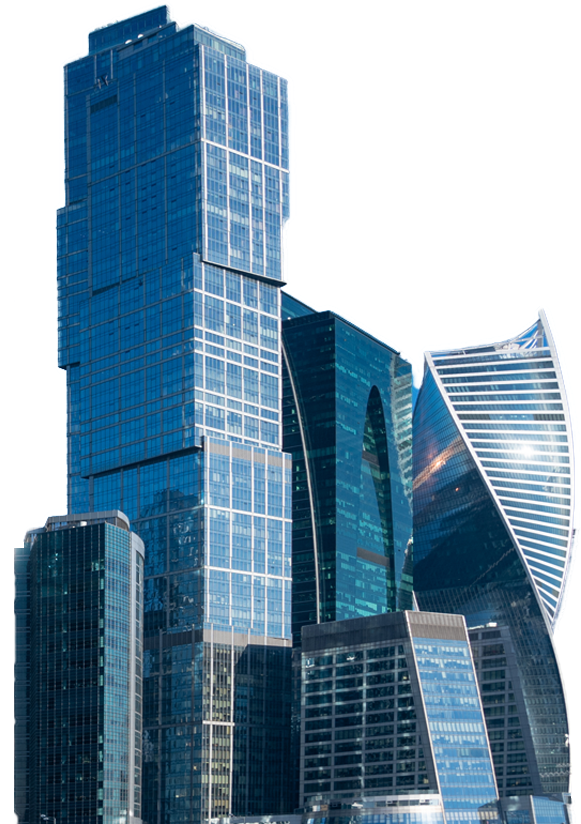
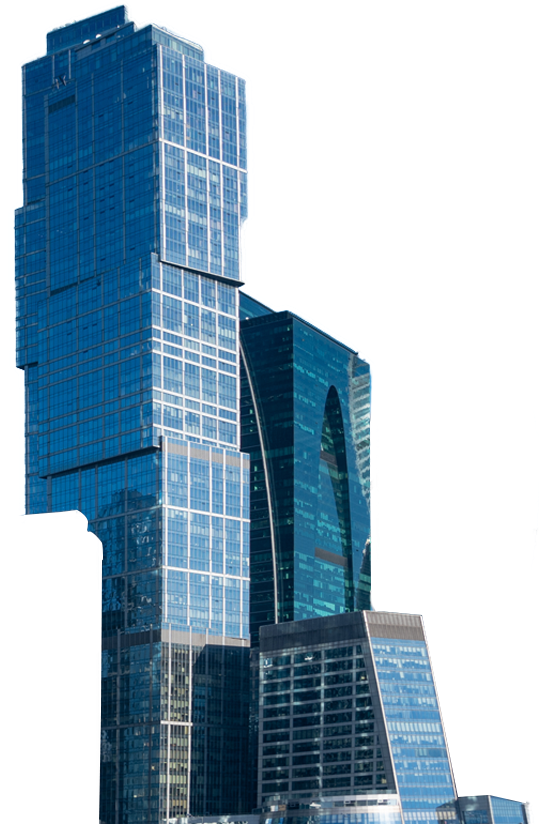
Split buildings

diff --git a/src/html/blocks/main-page/_hero-parallax.html b/src/html/blocks/main-page/_hero-parallax.html
@@ -1,7 +1,7 @@
 <section class="hero-parallax">
     <div class="hero-parallax__container container">
         <div class="hero-parallax__body">
-            <h1 data-parallax="x=0.07,y=0.07,z=0,rotation=1" class="hero-parallax__title">
+            <h1 data-parallax="x=0.06,y=0.06,z=0,rotation=0.5" class="hero-parallax__title">
                 BIM association
             </h1>
         </div>
@@ -9,39 +9,53 @@
             <div data-parallax="x=0.2,y=0.2,z=0,rotation=0" class="parallax-scene__item parallax-scene__bg">
                 <img src="@img/blocks/hero-parallax/bg.png" alt="Background" title="Background">
             </div>
-            <div data-parallax="x=0.2,y=0.2,z=0.2,rotation=1"
+            <div data-parallax="x=0.11,y=0.2,z=0.08, rotation=1" class="parallax-scene__item parallax-scene__evolution">
+                <img src="@img/blocks/hero-parallax/evolution.png" alt="Tower Evolution" title="Tower Evolution">
+            </div>
+            <div data-parallax="x=0.1,y=0.17,z=0.09, rotation=1"
                 class="parallax-scene__item parallax-scene__right-buildings">
                 <img src="@img/blocks/hero-parallax/right-buildings.png" alt="Right buildings" title="Right buildings">
             </div>
-            <div data-parallax="x=0.2,y=0.2,z=0,rotation=0" class="parallax-scene__item parallax-scene__fog-on-right">
+            <div data-parallax="x=0.09,y=0.15,z=0.1, rotation=1" class="parallax-scene__item parallax-scene__2000">
+                <img src="@img/blocks/hero-parallax/building-2000.png" alt="Tower 2000" title="Tower 2000">
+            </div>
+            <div data-parallax="x=0.15,y=0.2,z=0,rotation=0" class="parallax-scene__item parallax-scene__fog-on-right">
                 <img src="@img/blocks/hero-parallax/fog-on-right.png" alt="Fog on left" title="Fog on left">
             </div>
-            <div data-parallax="x=0.3,y=0.2,z=0,rotation=0" class="parallax-scene__item parallax-scene__fog-under-left">
+            <div data-parallax="x=0.155,y=0.2,z=0,rotation=0" class="parallax-scene__item parallax-scene__fog-under-left">
                 <img src="@img/blocks/hero-parallax/fog-under-left.png" alt="Fog under left" title="Fog under left">
             </div>
-            <div data-parallax="x=0.3,y=0.2,z=0,rotation=0"
+            <div data-parallax="x=0.15,y=0.2,z=0,rotation=0"
                 class="parallax-scene__item parallax-scene__fog-between-left-center">
                 <img src="@img/blocks/hero-parallax/fog-between-left-center.png" alt="Fog between left and center"
                     title="Fog between left and center">
             </div>
-            <div data-parallax="x=0.2,y=0.2,z=0.2,rotation=1"
-                class="parallax-scene__item parallax-scene__left-buildings">
-                <img src="@img/blocks/hero-parallax/left-buildings.png" alt="Left buildings" title="Left buildings">
+            <div data-parallax="x=0.095,y=0.2,z=0.06,rotation=1" class="parallax-scene__item parallax-scene__oko">
+                <img src="@img/blocks/hero-parallax/building-oko.png" alt="Building oko" title="Building oko">
             </div>
-            <div data-parallax="x=0.2,y=0.2,z=0,rotation=0" class="parallax-scene__item parallax-scene__fog-on-left">
+            <div data-parallax="x=0.095,y=0.2,z=0.06,rotation=1" class="parallax-scene__item parallax-scene__eurasia">
+                <img src="@img/blocks/hero-parallax/eurasia.png" alt="Eurasia Tower" title="Eurasia Tower">
+            </div>
+            <div data-parallax="x=0.085,y=0.18,z=0.09,rotation=1" class="parallax-scene__item parallax-scene__iq-big">
+                <img src="@img/blocks/hero-parallax/iq-big.png" alt="IQ Tower" title="IQ Tower">
+            </div>
+            <div data-parallax="x=0.08,y=0.15,z=0.1,rotation=1" class="parallax-scene__item parallax-scene__iq-small">
+                <img src="@img/blocks/hero-parallax/iq-small.png" alt="IQ Tower" title="IQ Tower">
+            </div>
+            <div data-parallax="x=0.15,y=0.,z=0,rotation=0" class="parallax-scene__item parallax-scene__fog-on-left">
                 <img src="@img/blocks/hero-parallax/fog-on-left.png" alt="Fog on left" title="Fog on left">
             </div>
-            <div data-parallax="x=0.1,y=0.2,z=0,rotation=0.5"
+            <div data-parallax="x=0.08,y=0.1,z=0,rotation=0.5"
                 class="parallax-scene__item parallax-scene__center-back-building">
                 <img src="@img/blocks/hero-parallax/center-back-building.png" alt="Center back building"
                     title="Center back building">
             </div>
-            <div data-parallax="x=0.1,y=0.2,z=0,rotation=0.5"
+            <div data-parallax="x=0.08,y=0.1,z=0,rotation=0.5"
                 class="parallax-scene__item parallax-scene__center-front-building">
                 <img src="@img/blocks/hero-parallax/center-front-building.png" alt="Center front building"
                     title="Center front building">
             </div>
-            <div data-parallax="x=0.2,y=0.2,z=0,rotation=0"
+            <div data-parallax="x=0.15,y=0.2,z=0,rotation=0"
                 class="parallax-scene__item parallax-scene__fog-on-right-second">
                 <img src="@img/blocks/hero-parallax/fog-on-right-second.png" alt="Fog on right second"
                     title="Fog on right second">

diff --git a/src/scss/blocks/main-page/_hero-parallax.scss b/src/scss/blocks/main-page/_hero-parallax.scss
@@ -49,6 +49,7 @@
     &__item {
         pointer-events: none;
         transition: all 0.7s cubic-bezier(0.2, 0.49, 0.32, 0.99) 0s;
+        will-change: transform;
     }
 
     &__bg {
@@ -69,14 +70,38 @@
 
     &__right-buildings {
         position: absolute;
-        bottom: -15%;
-        left: 76.7%;
+        bottom: -10%;
+        left: 77.8%;
         transform: translateX(-50%);
-        width: 30.265%;
+        width: 28.065%;
 
         @media (max-width: 1440px) and (min-height: 700px) {
             width: 33.265%;
         }
+
+        & img {
+            width: 100%;
+        }
+    }
+
+    &__evolution {
+        position: absolute;
+        bottom: -14%;
+        left: 86.2%;
+        transform: translateX(-50%);
+        width: 10%;
+
+        & img {
+            width: 100%;
+        }
+    }
+
+    &__2000 {
+        position: absolute;
+        bottom: -10%;
+        left: 66.4%;
+        transform: translateX(-50%);
+        width: 7.5%;
 
         & img {
             width: 100%;
@@ -105,16 +130,48 @@
         transform: translateX(-50%);
     }
 
-    &__left-buildings {
+    &__oko {
+        position: absolute;
+        bottom: -15%;
+        left: 15.3%;
+        transform: translate(-50%);
+        width: 8.92%;
+
+        & img {
+            width: 100%;
+        }
+    }
+
+    &__iq-big {
         position: absolute;
         bottom: -11%;
-        left: 25%;
+        left: 24.5%;
         transform: translateX(-50%);
-        width: 30.26%;
+        width: 30.261%;
 
-        @media (max-width: 1440px) and (min-height: 700px) {
-            width: 33.25%;
+        & img {
+            width: 100%;
         }
+    }
+
+    &__eurasia {
+        position: absolute;
+        bottom: -13.2%;
+        left: 29%;
+        transform: translateX(-50%);
+        width: 13.334%;
+
+        & img {
+            width: 100%;
+        }
+    }
+
+    &__iq-small {
+        position: absolute;
+        bottom: -8%;
+        left: 22%;
+        transform: translateX(-50%);
+        width: 16.2%;
 
         & img {
             width: 100%;

diff --git a/src/js/script.js b/src/js/script.js
@@ -6,7 +6,7 @@ const initParallax = () => {
     if (!parallaxSection) return;
 
     const parallaxElements = document.querySelectorAll('[data-parallax]');
-    
+
     parallaxSection.addEventListener('mousemove', moveParallaxElements);
 
     function moveParallaxElements(e) {
@@ -27,8 +27,10 @@ const initParallax = () => {
                 elementCoordY = `calc(-50% + ${elementCoordY}px)`;
 
                 element.style.transform = `perspective(2300px) rotateY(${elementDegree}deg) translate3d(${elementCoordX}, ${elementCoordY}, ${zValue}px)`;
+                element.style.webkitTransform = `perspective(2300px) rotateY(${elementDegree}deg) translate3d(${elementCoordX}, ${elementCoordY}, ${zValue}px)`;
             } else {
                 element.style.transform = `perspective(2300px) rotateY(${elementDegree}deg) translate3d(calc(-50% + ${elementCoordX}px), ${elementCoordY}px, ${zValue}px)`;
+                element.style.webkitTransform = `perspective(2300px) rotateY(${elementDegree}deg) translate3d(calc(-50% + ${elementCoordX}px), ${elementCoordY}px, ${zValue}px)`;
             }
 
         })
